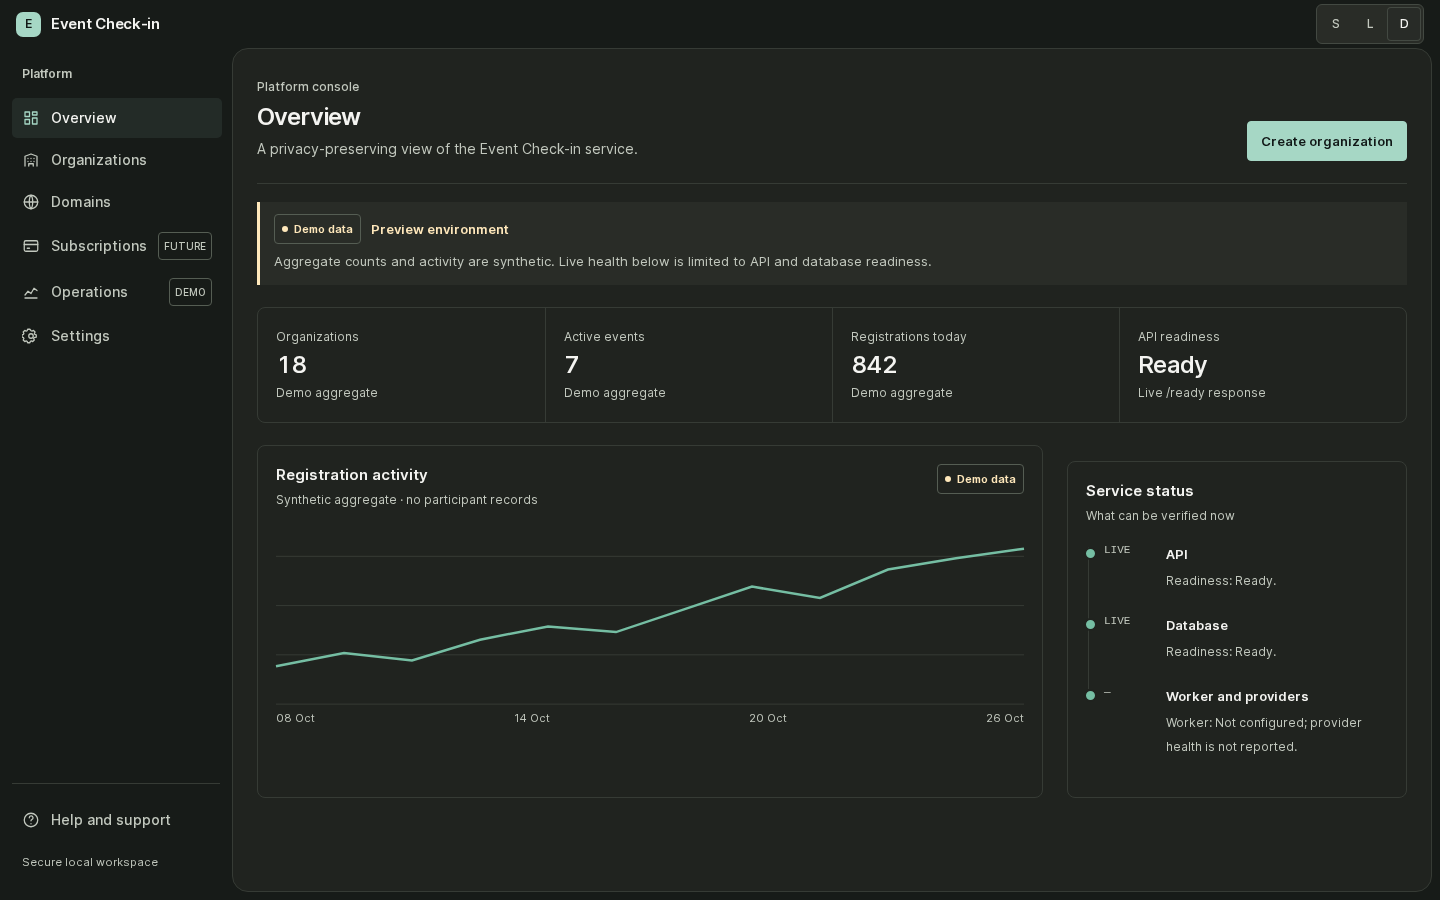
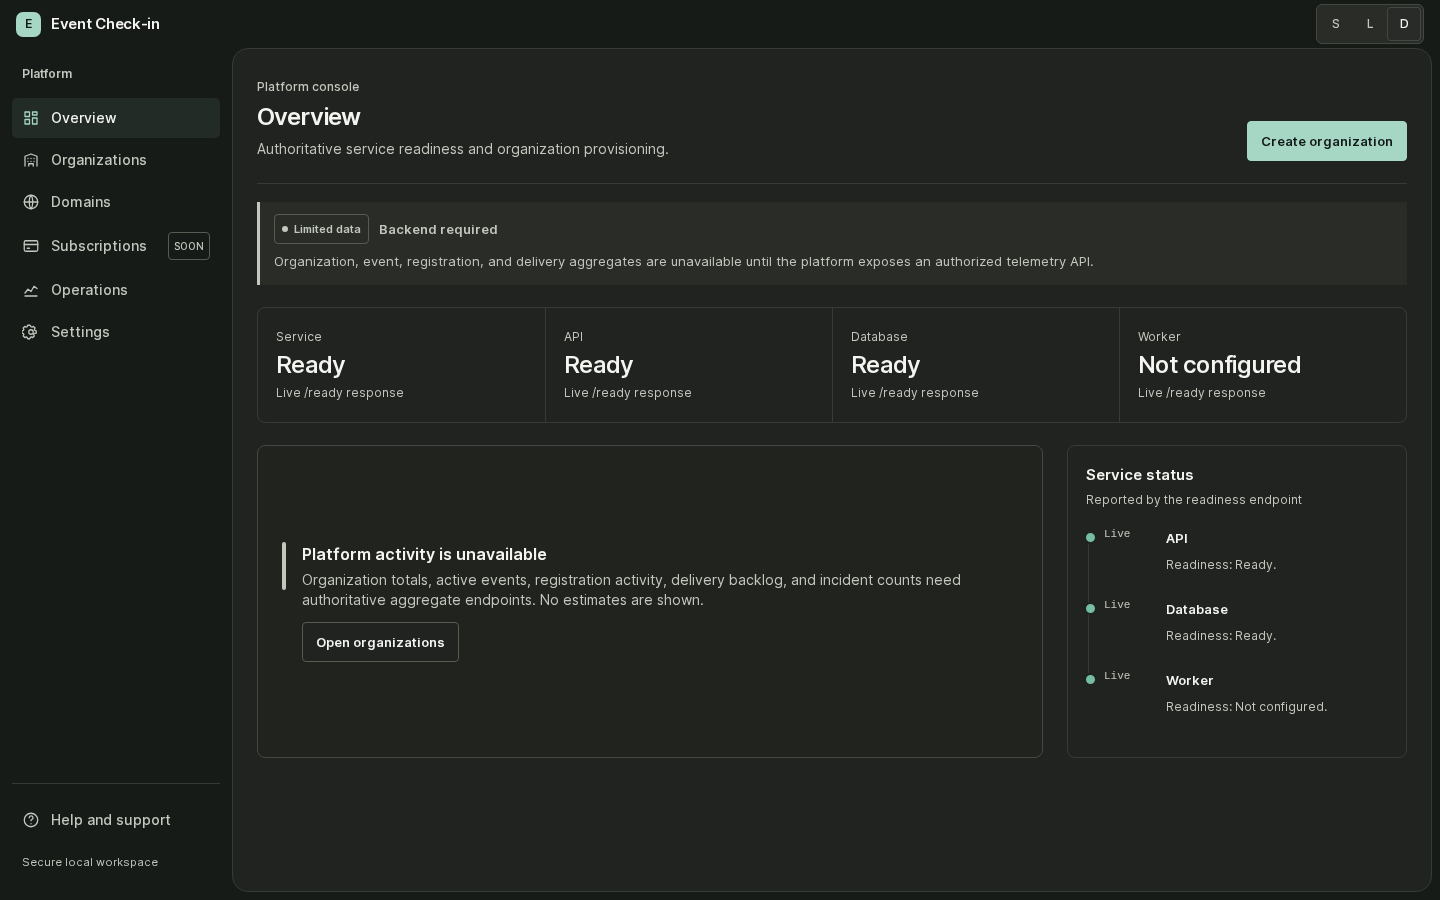
docs(ui): publish Phase 2 visual evidence

diff --git a/docs/design-system-preview.html b/docs/design-system-preview.html
@@ -4,7 +4,7 @@
   <meta charset="utf-8">
   <meta name="viewport" content="width=device-width, initial-scale=1">
   <meta name="color-scheme" content="light dark">
-  <title>Quiet Precision — design foundations laboratory</title>
+  <title>Quiet Operations — design system preview</title>
   <style>
     @font-face { font-family: "Inter Lab"; src: url("assets/fonts/InterVar.woff2") format("woff2"); font-weight: 400 600; font-style: normal; font-display: swap; }
     @font-face { font-family: "Geist Lab"; src: url("assets/fonts/GeistLatin.woff2") format("woff2"); font-weight: 400 600; font-style: normal; font-display: swap; }
@@ -121,6 +121,13 @@
     .field-error { margin-top: 5px; color: var(--danger-ink); font-size: 13px; }
     .input.invalid { border-color: var(--danger-ink); }
     .input.demo-focus { outline: 2px solid var(--focus); outline-offset: 3px; }
+    .password-wrap { position: relative; }
+    .password-wrap .input { padding-right: 70px; }
+    .password-toggle { position: absolute; inset: 5px 5px 5px auto; min-width: 56px; border: 0; border-radius: var(--control-radius); background: transparent; color: var(--accent); font-size: 13px; font-weight: 600; }
+    .progress { display: grid; gap: 7px; }
+    .progress-head { display: flex; justify-content: space-between; gap: 12px; font-size: 14px; }
+    .progress-head span:last-child { color: var(--muted); font-variant-numeric: tabular-nums; }
+    progress { width: 100%; height: 8px; accent-color: var(--accent); }
     .status-grid { display: grid; grid-template-columns: repeat(2, minmax(0, 1fr)); gap: 10px; }
     .status { border: 1px solid currentColor; border-radius: var(--surface-radius); padding: 11px 13px; font-size: 14px; line-height: 20px; }
     .status strong { display: block; font-weight: 600; }
@@ -129,6 +136,15 @@
     .status.warning { background: var(--warning-bg); color: var(--warning-ink); }
     .status.danger { background: var(--danger-bg); color: var(--danger-ink); }
     .status.info { background: var(--info-bg); color: var(--info-ink); }
+    .screen-state-grid { display: grid; grid-template-columns: repeat(2, minmax(0, 1fr)); gap: 12px; }
+    .screen-state { min-height: 150px; display: grid; grid-template-columns: 4px minmax(0, 1fr); gap: 16px; align-content: center; padding: var(--inset); border: 1px solid var(--line); border-radius: var(--surface-radius); background: var(--surface); }
+    .screen-state-mark { width: 4px; height: 48px; border-radius: 2px; background: var(--muted); }
+    .screen-state.success .screen-state-mark { background: var(--success-ink); }
+    .screen-state.error .screen-state-mark { background: var(--danger-ink); }
+    .screen-state.soon .screen-state-mark { background: var(--warning-ink); }
+    .screen-state.restricted .screen-state-mark { background: var(--info-ink); }
+    .screen-state h3 { margin: 0; }
+    .screen-state p { margin-top: 3px; color: var(--muted); font-size: 14px; }
     .treatment-grid { display: grid; grid-template-columns: repeat(2, minmax(0, 1fr)); gap: 18px; }
     .treatment { border: 1px solid var(--line); border-radius: var(--surface-radius); padding: 12px; background: var(--surface); }
     .treatment h3 { font-size: 14px; margin: 0 0 8px; }
@@ -148,9 +164,9 @@
     .icon-item svg { flex: none; color: var(--muted); fill: none; stroke: currentColor; stroke-linecap: round; stroke-linejoin: round; }
     .icon-item span { overflow-wrap: anywhere; }
     .float-ground { padding: 20px; background: var(--subtle); border-radius: var(--surface-radius); }
-    .float-sample { width: min(240px, 100%); padding: 8px; border-radius: var(--surface-radius); background: var(--surface); box-shadow: 0 8px 24px rgb(25 30 25 / 12%); }
+    .float-sample { width: min(240px, 100%); padding: 8px; border-radius: var(--surface-radius); background: var(--surface); box-shadow: 0 4px 12px rgb(25 30 25 / 7%); }
     .float-sample div { padding: 7px 9px; font-size: 14px; }
-    :root[data-theme="dark"] .float-sample { box-shadow: 0 12px 28px rgb(0 0 0 / 38%); }
+    :root[data-theme="dark"] .float-sample { box-shadow: 0 6px 16px rgb(0 0 0 / 24%); }
     .motion-list { display: grid; grid-template-columns: 1fr 1fr; gap: 10px 20px; font-size: 14px; }
     .motion-list div { border-top: 1px solid var(--line); padding-top: 7px; }
     .motion-list strong { display: block; font-weight: 600; }
@@ -177,12 +193,12 @@
       .specimen-grid { gap: 9px; }
       .section-head { display: block; }
       .section-head p { margin-top: 4px; }
-      .field-grid, .status-grid, .icon-list { grid-template-columns: 1fr; }
+      .field-grid, .status-grid, .screen-state-grid, .icon-list { grid-template-columns: 1fr; }
       .state-list { grid-template-columns: repeat(2, minmax(0, 1fr)); }
       .token-list { grid-template-columns: repeat(2, minmax(0, 1fr)); }
     }
     @media (max-width: 420px) {
-      .wrap { width: min(100% - 28px, 1120px); }
+      .wrap { width: min(100% - 36px, 1120px); }
       .surface-grid, .contrast-list, .scale-list, .state-list, .motion-list { grid-template-columns: 1fr; }
       .type-line { grid-template-columns: 72px 1fr; gap: 10px; }
     }
@@ -191,9 +207,9 @@
 <body>
   <header>
     <div class="wrap">
-      <h1>Quiet Precision</h1>
-      <p class="intro">A focused laboratory for comparing the platform’s visual foundations. Choose a typeface, neutral foundation, theme, accent, density, and radius. Every specimen keeps the same content as the tokens change.</p>
-      <p class="review-state">Provisional design study · Local font files · Isolated specimens only</p>
+      <h1>Quiet Operations</h1>
+      <p class="intro">The implemented application foundation for Event Check-in. Compare its typography, neutral foundation, theme, accent, density, controls, and operational states with consistent content.</p>
+      <p class="review-state">Quiet Precision foundation · Framed operational composition · Local font files</p>
       <p class="font-health" id="font-health" role="status" aria-live="polite">Checking local font files…</p>
     </div>
   </header>
@@ -269,13 +285,26 @@
         <div class="state-cell"><span>Disabled</span><button class="button" type="button" disabled>Download report</button></div>
         <div class="state-cell"><span>Loading</span><button class="button" type="button" aria-busy="true" aria-disabled="true">Preparing report…</button></div>
       </div></div>
-      <div class="specimen-grid specimen"><div class="specimen-name">Inputs</div><div class="field-grid"><div><label class="field-label" for="email">Email address</label><input class="input" id="email" type="email" placeholder="name@example.com" autocomplete="off"><p class="field-note">Used to send the entry ticket.</p></div><div><label class="field-label" for="email-focus">Email address · focus treatment</label><input class="input demo-focus" id="email-focus" type="email" value="olade@example.org"><p class="field-note">Tab into either input to inspect real focus.</p></div><div><label class="field-label" for="email-error">Email address · validation error</label><input class="input invalid" id="email-error" type="email" value="name@" aria-invalid="true" aria-describedby="email-error-text"><p class="field-error" id="email-error-text">Enter a valid email address.</p></div></div></div>
+      <div class="specimen-grid specimen"><div class="specimen-name">Inputs</div><div class="field-grid"><div><label class="field-label" for="email">Email address</label><input class="input" id="email" type="email" placeholder="name@example.com" autocomplete="off"><p class="field-note">Used to send the entry ticket.</p></div><div><label class="field-label" for="password">Password</label><div class="password-wrap"><input class="input" id="password" type="password" value="secure-password" autocomplete="current-password"><button class="password-toggle" type="button" aria-controls="password" aria-pressed="false">Show</button></div><p class="field-note">The visibility control preserves the value and focus.</p></div><div><label class="field-label" for="email-focus">Email address · focus treatment</label><input class="input demo-focus" id="email-focus" type="email" value="olade@example.org"><p class="field-note">Tab into either input to inspect real focus.</p></div><div><label class="field-label" for="email-error">Email address · validation error</label><input class="input invalid" id="email-error" type="email" value="name@" aria-invalid="true" aria-describedby="email-error-text"><p class="field-error" id="email-error-text">Enter a valid email address.</p></div></div></div>
+      <div class="specimen-grid specimen"><div class="specimen-name">Long-running operation</div><div class="progress"><div class="progress-head"><span>Participant import</span><span>45%</span></div><progress max="100" value="45" aria-label="Participant import"></progress><p class="field-note">The operation remains visible until it completes or fails.</p></div></div>
     </section>
 
     <section class="section" aria-labelledby="status-title">
       <div class="section-head"><h2 id="status-title">Status language</h2><p>Semantic colors are independent of the accent and always carry text.</p></div>
       <div class="specimen-grid specimen"><div class="specimen-name">Four states</div><div class="status-grid"><div class="status success"><strong>Checked in</strong><p>Entry was confirmed by the server.</p></div><div class="status warning"><strong>Already checked in</strong><p>Ask a supervisor for help.</p></div><div class="status danger"><strong>Ticket not valid</strong><p>Check the event ticket.</p></div><div class="status info"><strong>Could not confirm</strong><p>Check connection and retry.</p></div></div></div>
       <div class="specimen-grid specimen"><div class="specimen-name">Accent distinction</div><div class="button-row"><button class="button" type="button">Confirm action</button><div class="status success"><strong>Checked in</strong><p>Server-confirmed result.</p></div></div></div>
+    </section>
+
+    <section class="section" aria-labelledby="screen-state-title">
+      <div class="section-head"><h2 id="screen-state-title">Operational screen states</h2><p>Each state explains the condition and the next available action without invented data.</p></div>
+      <div class="screen-state-grid">
+        <article class="screen-state"><span class="screen-state-mark" aria-hidden="true"></span><div><h3>No participants yet</h3><p>Import a participant file or open public registration.</p></div></article>
+        <article class="screen-state success"><span class="screen-state-mark" aria-hidden="true"></span><div><h3>Import completed</h3><p>The accepted registrations are available in the participant directory.</p></div></article>
+        <article class="screen-state error" role="alert"><span class="screen-state-mark" aria-hidden="true"></span><div><h3>Attendance unavailable</h3><p>Check the connection and try the request again.</p></div></article>
+        <article class="screen-state restricted"><span class="screen-state-mark" aria-hidden="true"></span><div><h3>Organizer permission required</h3><p>Ask an organization owner to update your role.</p></div></article>
+        <article class="screen-state soon"><span class="screen-state-mark" aria-hidden="true"></span><div><h3>Campaigns are coming soon</h3><p>Transactional ticket delivery remains available.</p></div></article>
+        <article class="screen-state"><span class="screen-state-mark" aria-hidden="true"></span><div><h3>Telemetry unavailable</h3><p>Live operational metrics require an authoritative monitoring endpoint.</p></div></article>
+      </div>
     </section>
 
     <section class="section" aria-labelledby="nav-title">
@@ -290,7 +319,7 @@
         <div class="icon-item"><svg width="16" height="16" viewBox="0 0 24 24" stroke-width="1.5" aria-hidden="true"><circle cx="10.5" cy="10.5" r="6.5"/><path d="m16 16 5 5"/></svg><span>16px · navigation · 1.5px stroke</span></div>
         <div class="icon-item"><svg width="20" height="20" viewBox="0 0 24 24" stroke-width="1.75" aria-hidden="true"><circle cx="10.5" cy="10.5" r="6.5"/><path d="m16 16 5 5"/></svg><span>20px · touch action · 1.75px stroke</span></div>
       </div></div>
-      <div class="specimen-grid specimen"><div class="specimen-name">Floating surface</div><div class="float-ground"><div class="float-sample" role="img" aria-label="Floating menu surface with two rows and a soft shadow"><div>Download CSV</div><div>Download PDF</div></div></div></div>
+      <div class="specimen-grid specimen"><div class="specimen-name">Floating surface</div><div class="float-ground" data-ui><div class="float-sample" role="img" aria-label="Floating menu surface with two rows and a soft shadow"><div>Download CSV</div><div>Download PDF</div></div></div></div>
       <div class="specimen-grid specimen"><div class="specimen-name">Motion tokens</div><div class="motion-list"><div><strong>Frequent action</strong><span>Instant state change; no entrance motion.</span></div><div><strong>Pointer press</strong><span>120ms transform to 0.97 scale; removed for reduced motion.</span></div><div><strong>Occasional overlay</strong><span>180–220ms opacity/transform, strong ease-out; not animated in this sheet.</span></div><div><strong>Exit</strong><span>140–180ms opacity/transform; reduced motion removes translation.</span></div></div></div>
     </section>
 
@@ -300,11 +329,19 @@
     </section>
 
   </main>
-  <footer><div class="wrap">Provisional foundation study. Review the typography at real reading size and compare all light, dark, neutral, and accent combinations before approval. Font licenses: <a href="assets/fonts/INTER-OFL.txt">Inter</a> · <a href="assets/fonts/GEIST-OFL.txt">Geist</a>.</div></footer>
+  <footer><div class="wrap">Quiet Operations extends the approved Quiet Precision foundation. Review typography at real reading size and compare all light, dark, neutral, and accent combinations. Font licenses: <a href="assets/fonts/INTER-OFL.txt">Inter</a> · <a href="assets/fonts/GEIST-OFL.txt">Geist</a>.</div></footer>
   <script>
     const root = document.documentElement;
     document.addEventListener('keydown', () => { root.dataset.input = 'keyboard'; });
     document.addEventListener('pointerdown', () => { root.dataset.input = 'pointer'; });
+    document.querySelector('.password-toggle')?.addEventListener('click', event => {
+      const button = event.currentTarget;
+      const input = document.getElementById(button.getAttribute('aria-controls'));
+      const visible = input.type === 'text';
+      input.type = visible ? 'password' : 'text';
+      button.textContent = visible ? 'Show' : 'Hide';
+      button.setAttribute('aria-pressed', String(!visible));
+    });
     document.querySelectorAll('fieldset[data-setting]').forEach(group => {
       group.addEventListener('click', event => {
         const button = event.target.closest('button[data-value]');

diff --git a/docs/UI_UX_CHANGELOG.md b/docs/UI_UX_CHANGELOG.md
@@ -62,6 +62,28 @@ This file records the work completed on `feat/platform-ui-ux-overhaul`. Entries 
 
 - Inspected refreshed organizer desktop light, platform desktop dark, and gate mobile dark screenshots after the foundation changes.
 
+### Recovery completion
+
+- Replaced synthetic platform totals, charts, domains, job counts, delivery backlogs, and alerts with live readiness values or explicit unavailable states.
+- Added shared success and unavailable screen-state variants and exposed them in the UI laboratory and design-system preview.
+- Replaced the subscription placeholder controls with an honest Coming soon state and the administrator placeholder with a restricted state.
+- Routed scanner failures through the shared safe-error mapper so raw server payloads and parsing failures are not presented to gate staff.
+- Removed scanner spinner animation when reduced motion is requested.
+- Updated the Quiet Operations preview with password visibility, progress, and all operational screen-state specimens.
+- Reduced floating-surface shadows after browser inspection and retained flat base and grouped surfaces.
+
+### Phase 2 verification
+
+- TypeScript: passed.
+- ESLint: passed.
+- Token tests: passed, 2 tests.
+- Targeted Playwright interaction, accessibility, narrow-screen, platform, and scanner checks: passed, 7 tests.
+- Taste browser inspection of the design-system preview: 0 failures and 2 advisory warnings.
+- The remaining Taste warnings are expected for the approved warm-neutral canvas and the intentionally long component-reference page.
+- Desktop, tablet, and mobile preview captures were visually inspected; no clipping, unintended overlap, or horizontal overflow was observed.
+- Preserved a platform overview before capture and added updated platform and design-system captures under `docs/screenshots/` for review.
+- The interrupted organizer workflow edits remain outside the Phase 2 commits and are documented for Phase 3 review.
+
 ## Backend dependencies
 
 - Structured authentication lockout reason and retry metadata.

diff --git a/docs/DESIGN_SYSTEM.md b/docs/DESIGN_SYSTEM.md
@@ -121,7 +121,7 @@ The laboratory uses the same labels, copy, and specimen order for every candidat
 
 Use one outline icon set. Candidate sizes: 14px inline cue, 16px navigation/action adjunct, 20px touch action. Candidate strokes: 1.5px at 14–16px, 1.75px at 20px. Icons are subordinate to labels, use current text color, and have accessible names when they are the sole affordance. Do not place routine icons in tinted discs or use an icon where a word is clearer. Status must still have text.
 
-Base and grouped surfaces have **no shadow**. A floating menu/popover may use `0 8px 24px rgb(25 30 25 / 12%)` in light mode; dark mode may use `0 12px 28px rgb(0 0 0 / 38%)`. A floating shadow is paired with a surface fill and no competing border. Dialogs may need a stronger scrim/edge separation after actual screen review. Elevation never communicates status by itself.
+Base and grouped surfaces have **no shadow**. A floating menu or popover may use `0 4px 12px rgb(25 30 25 / 7%)` in light mode; dark mode may use `0 6px 16px rgb(0 0 0 / 24%)`. A floating shadow is paired with a surface fill and no competing border. Dialogs may need a stronger scrim or edge separation after actual screen review. Elevation never communicates status by itself.
 
 | Motion token | Provisional value | Purpose and limit |
 |---|---|---|
